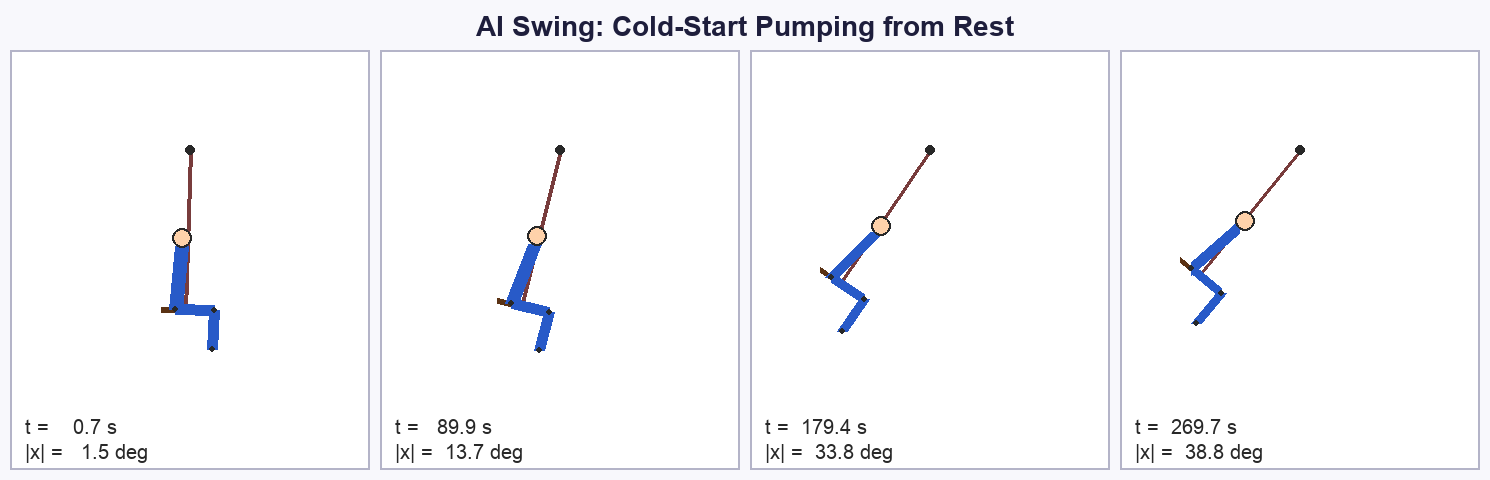
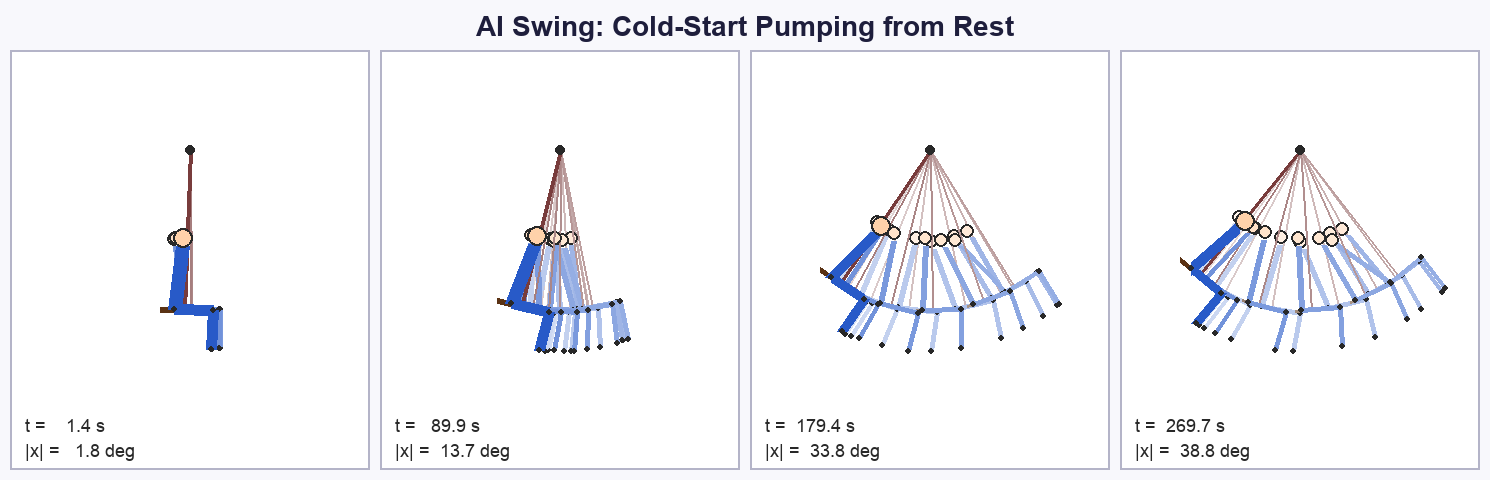
Improve README header imagery
- hero_cold_start.png: overlay ~2.6s trail of ghost figures behind
  each of the 4 snapshots so the swept arc is visible at a glance
- one_period_strip.png (new): 9-frame strip sampling one full period
  (T ~= 2.46s) at max amplitude (~37.5 deg), showing right peak,
  forward pass, left peak, backward pass, back to right peak
- README: add the strip image below the hero and describe what each
  visualization communicates

diff --git a/README.md b/README.md
@@ -2,6 +2,12 @@
 
 ![cold-start hero](hero_cold_start.png)
 
+*各スナップショットには直前 2.6 秒分の履歴をゴースト重畳表示しています。スイングが往復する弧の範囲が視覚的にわかります。*
+
+![one full period at max amplitude](one_period_strip.png)
+
+*最大振幅到達後の 1 周期 (T ≈ 2.46 秒, |x|max ≈ 37.5°) を 9 コマに等間隔サンプルしたストリップ。右ピーク → 前方通過 → 左ピーク → 後方通過 → 右ピーク、という 1 往復分の動きが一目でわかります。*
+
 PPO (Proximal Policy Optimization) で学習したエージェントが、**完全に静止した状態からブランコを漕ぎ出し、約 260 秒で振幅 ±40° に到達**するまでの実装です。身体モデルは「ブランコの座面に座る人間」を 3 質点 (ブランコ棒, 胴体, 頭部) の連結剛体としてモデル化しており、エージェントは腰のトルクだけで身体を動かします。
 
 ## 成果サマリ
